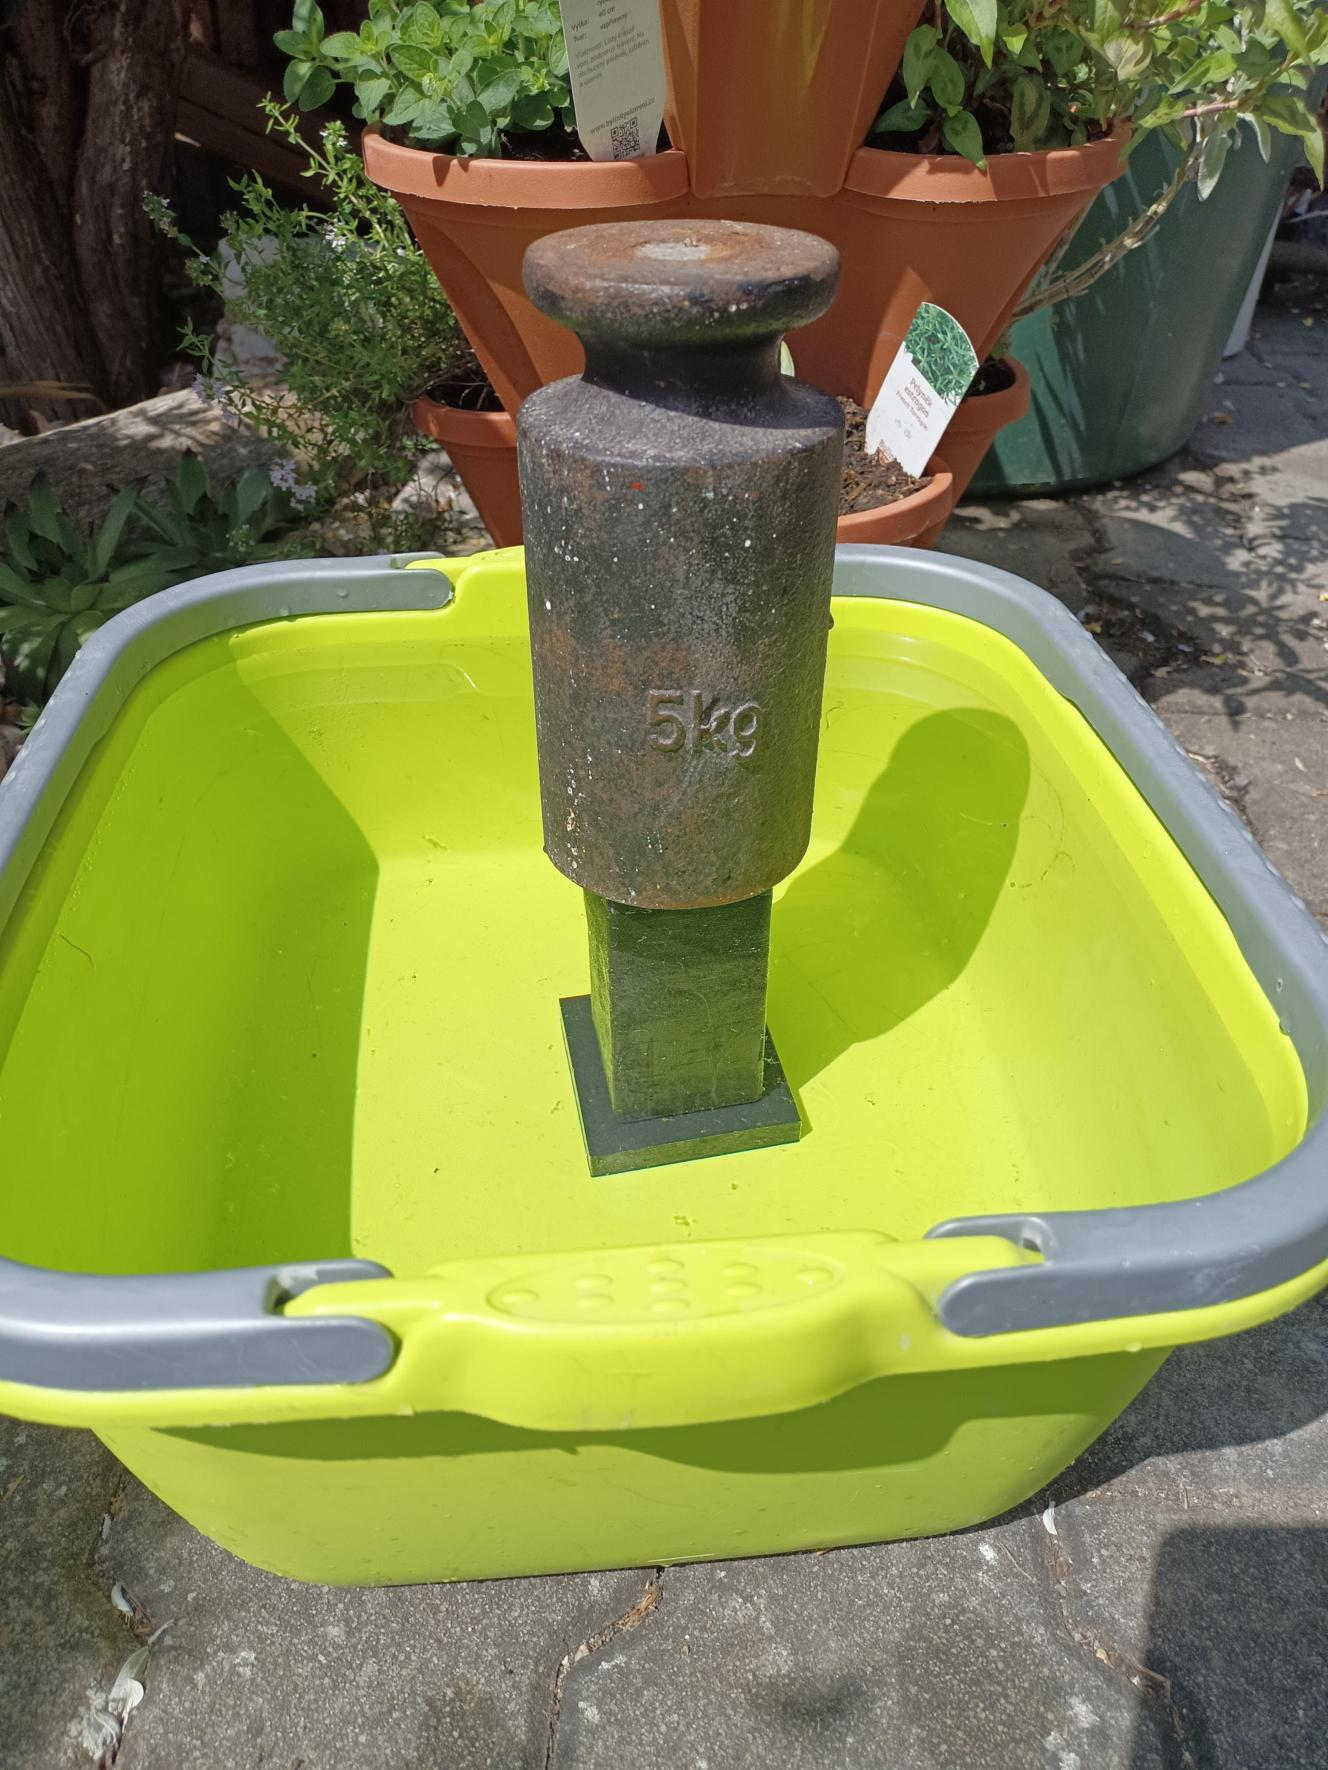
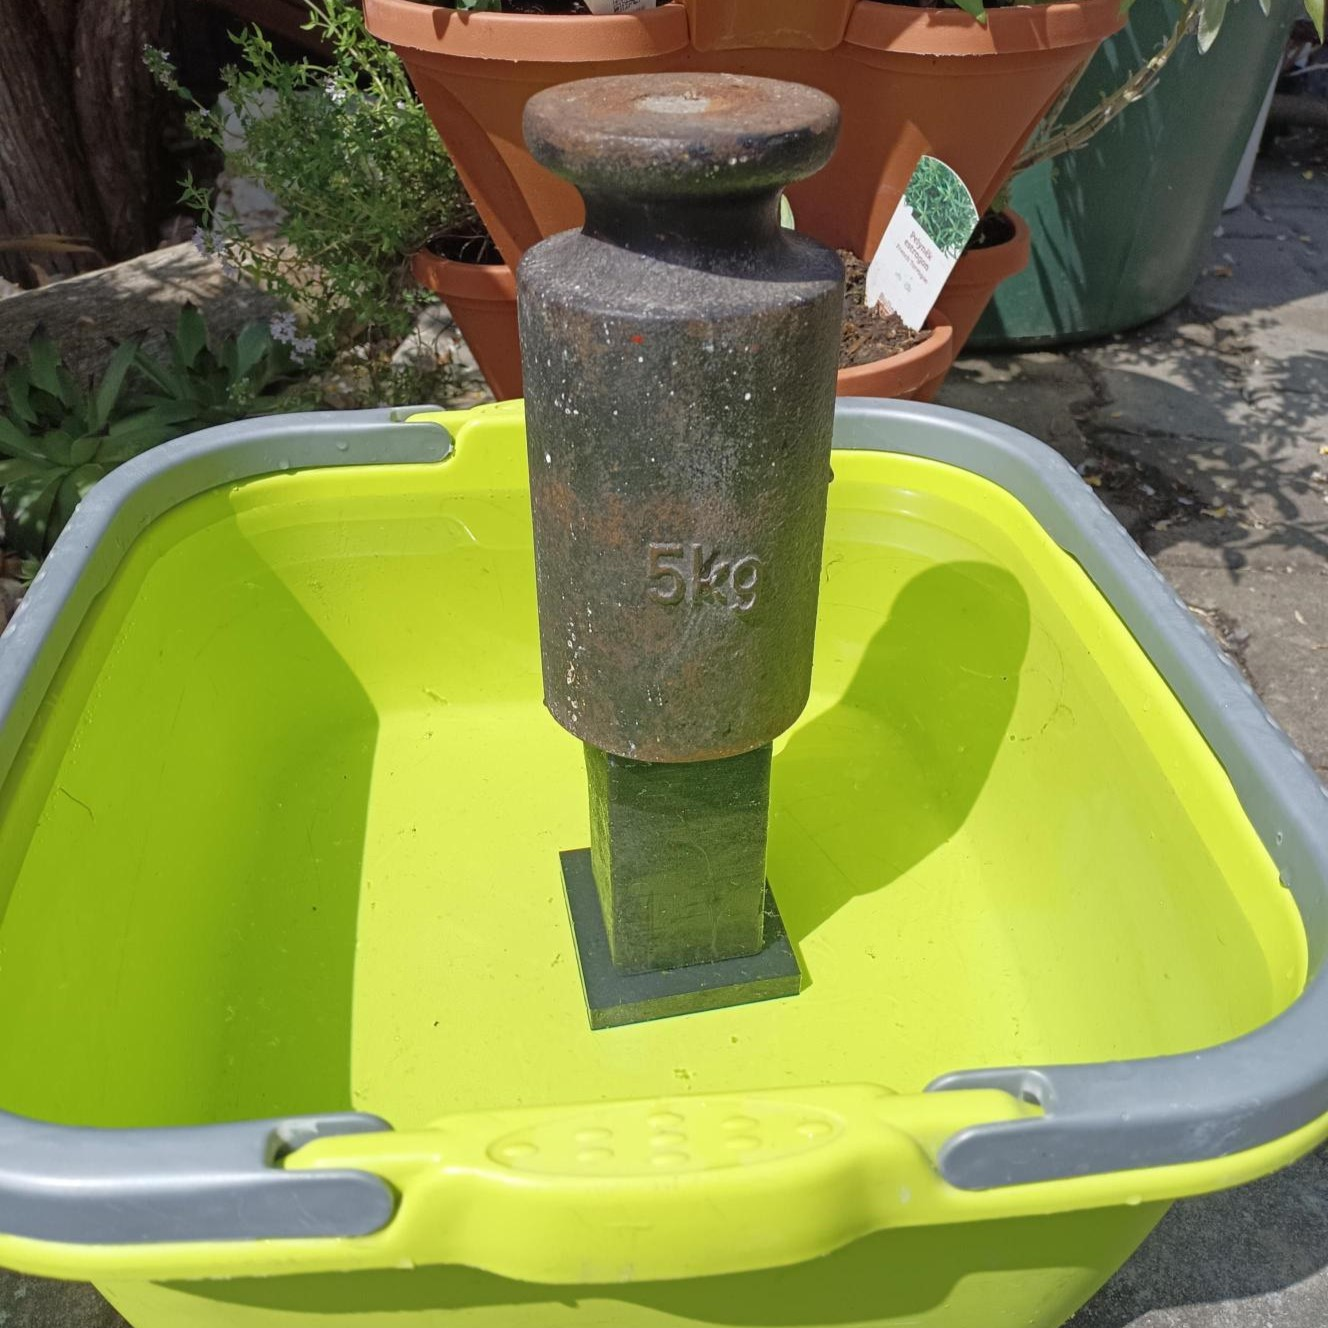
.

diff --git a/web/block_1-2/postup/zakazka.md b/web/block_1-2/postup/zakazka.md
@@ -5,6 +5,8 @@
 
 Cílem této zakázky bylo vytvořit napodobeninu známé kooperační hry „Keep talking and nobody explodes“ s více prvky modularity. Pro tento projekt byl zároveň vymezen velmi omezený čas (necelé 2 týdny).
 
+---
+
 
 ## Box
 
@@ -18,6 +20,8 @@ Cílem této zakázky bylo vytvořit napodobeninu známé kooperační hry „Ke
 ![error](../2/box/pohled_a.png)
 *Dva hotové moduly*
 
+---
+
 
 ## Deska
 
@@ -30,6 +34,8 @@ Cílem této zakázky bylo vytvořit napodobeninu známé kooperační hry „Ke
 
 ![error](../2/box/desky_s.png)
 *Propojené desky*
+
+---
 
 
 ## Tisk a po tiskový process	

diff --git a/web/block_1-2/postup/tesneni.md b/web/block_1-2/postup/tesneni.md
@@ -8,6 +8,7 @@ Zároveň jsem chtěl zjistit zda jsem schopen vytisknout své vlastní vodotěs
 
 ---
 
+
 ## Tisk s TPU
 
 - Tisk s TPU je trochu zrádný v tom, že TPU je velmi přilnaví a „*lepí*“ se na desku, a proto jsem zvolil, že se zaměřím na tisk TPU na 2. plast resp. PLA, PETG
@@ -25,6 +26,7 @@ Zároveň jsem chtěl zjistit zda jsem schopen vytisknout své vlastní vodotěs
 ![error](../2/tesneni/benchy.jpg)
 *Testování TPU a kalibrování tiskárny pomocí Benchy*
 
+---
 
 
 ## Testování těsnění

diff --git a/web/block_1-2/postup/kurz.md b/web/block_1-2/postup/kurz.md
@@ -2,6 +2,7 @@
 
 ---
 
+
 ## Kurzy
 - Kurzy byly od Fusion Autodesk -> [self-paced learning](https://www.autodesk.com/learn/ondemand/collection/self-paced-learning-for-fusion)
 - Splnil jsem 2 sady lekcí tutorials a 3D modeling
@@ -14,6 +15,7 @@
 ![error](../1/k/e.png)
 
 ---
+
 
 ## Reprodukce modelů
 - Měřil jsem součástky a následně snažil modelovat 1:1
@@ -28,6 +30,7 @@
 
 ![error](../1/k/s.png)
 *Model  servo motoru napojený na kloub*
+
 
 ---
 
